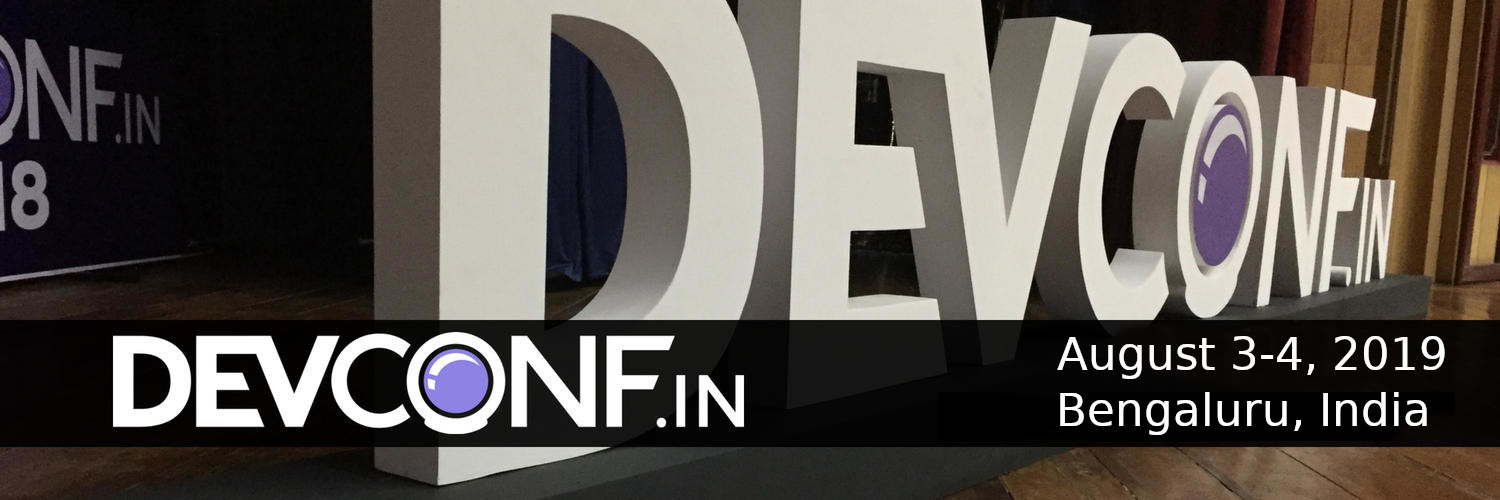
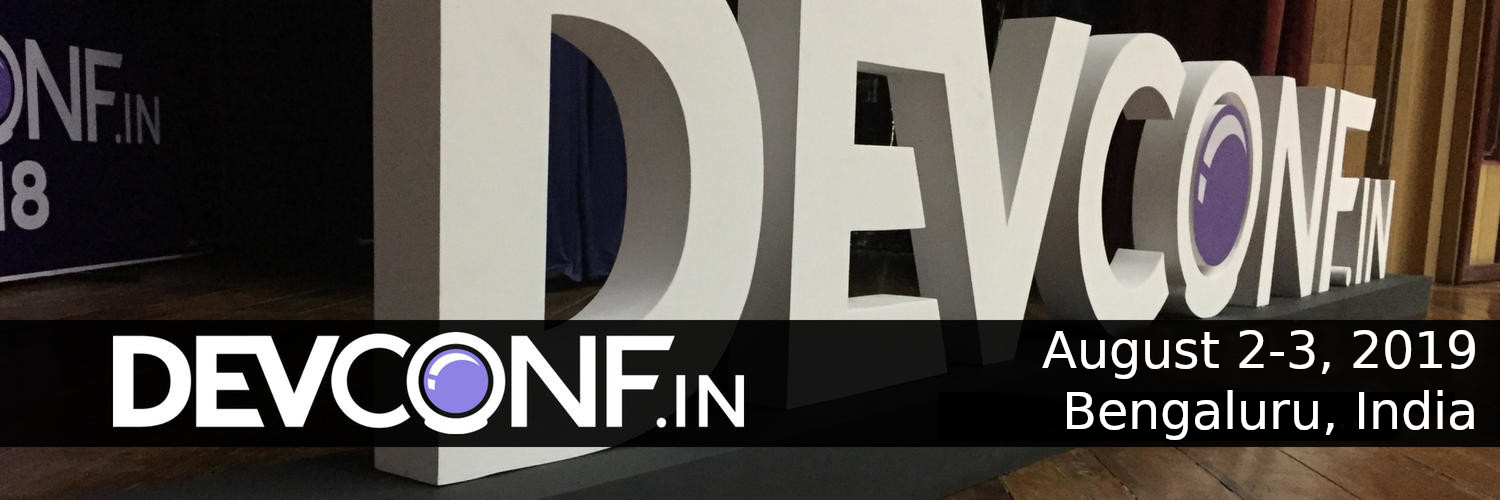
update devconf India event date

Changed region(s): [[0.6747, 0.66, 0.9813, 0.9]]

diff --git a/templates/www/in/2019/devconfin-2019-eventpage.html b/templates/www/in/2019/devconfin-2019-eventpage.html
@@ -18,7 +18,7 @@
       <div class="decoration-line-fade decoration-margins"></div>
       <div class="responsive">
         <p>{{ _('DevConf.IN 2019 is the second annual Developers&#39; Conference to be organised by <a href="https://redhat.com">Red Hat</a> in India. It is meant to provide a platform to the local FOSS community participants to come together and engage in the knowledge sharing through technical talks, workshops, panel discussions, hackathon and such activities.')}}</p>
-        <p><strong>{{ _('When') }}:</strong> {{ _('August 4-5, 2019') }}</p>
+        <p><strong>{{ _('When') }}:</strong> {{ _('August 2-3, 2019') }}</p>
 	<p><strong>{{ _('Venue') }}:</strong> {{ _('To be announced!') }}</p>
           <p>{{ _('You should consider attending this DevConf event if you are') }}:</p>
           <ul>

diff --git a/templates/www/base-in.html b/templates/www/base-in.html
@@ -5,7 +5,7 @@
 {% set facebook_url = "https://www.facebook.com/DevConf.IN" %}
 {% set telegram_url = "https://t.me/devconfin" %}
 
-{% set page_title = "DevConf.IN | August 3-4, 2019 - Bengaluru, India" %}
+{% set page_title = "DevConf.IN | August 2-3, 2019 - Bengaluru, India" %}
 
 {% set site_url = "https://devconf.in" %}
 {% set site_name = "DevConf.IN" %}
